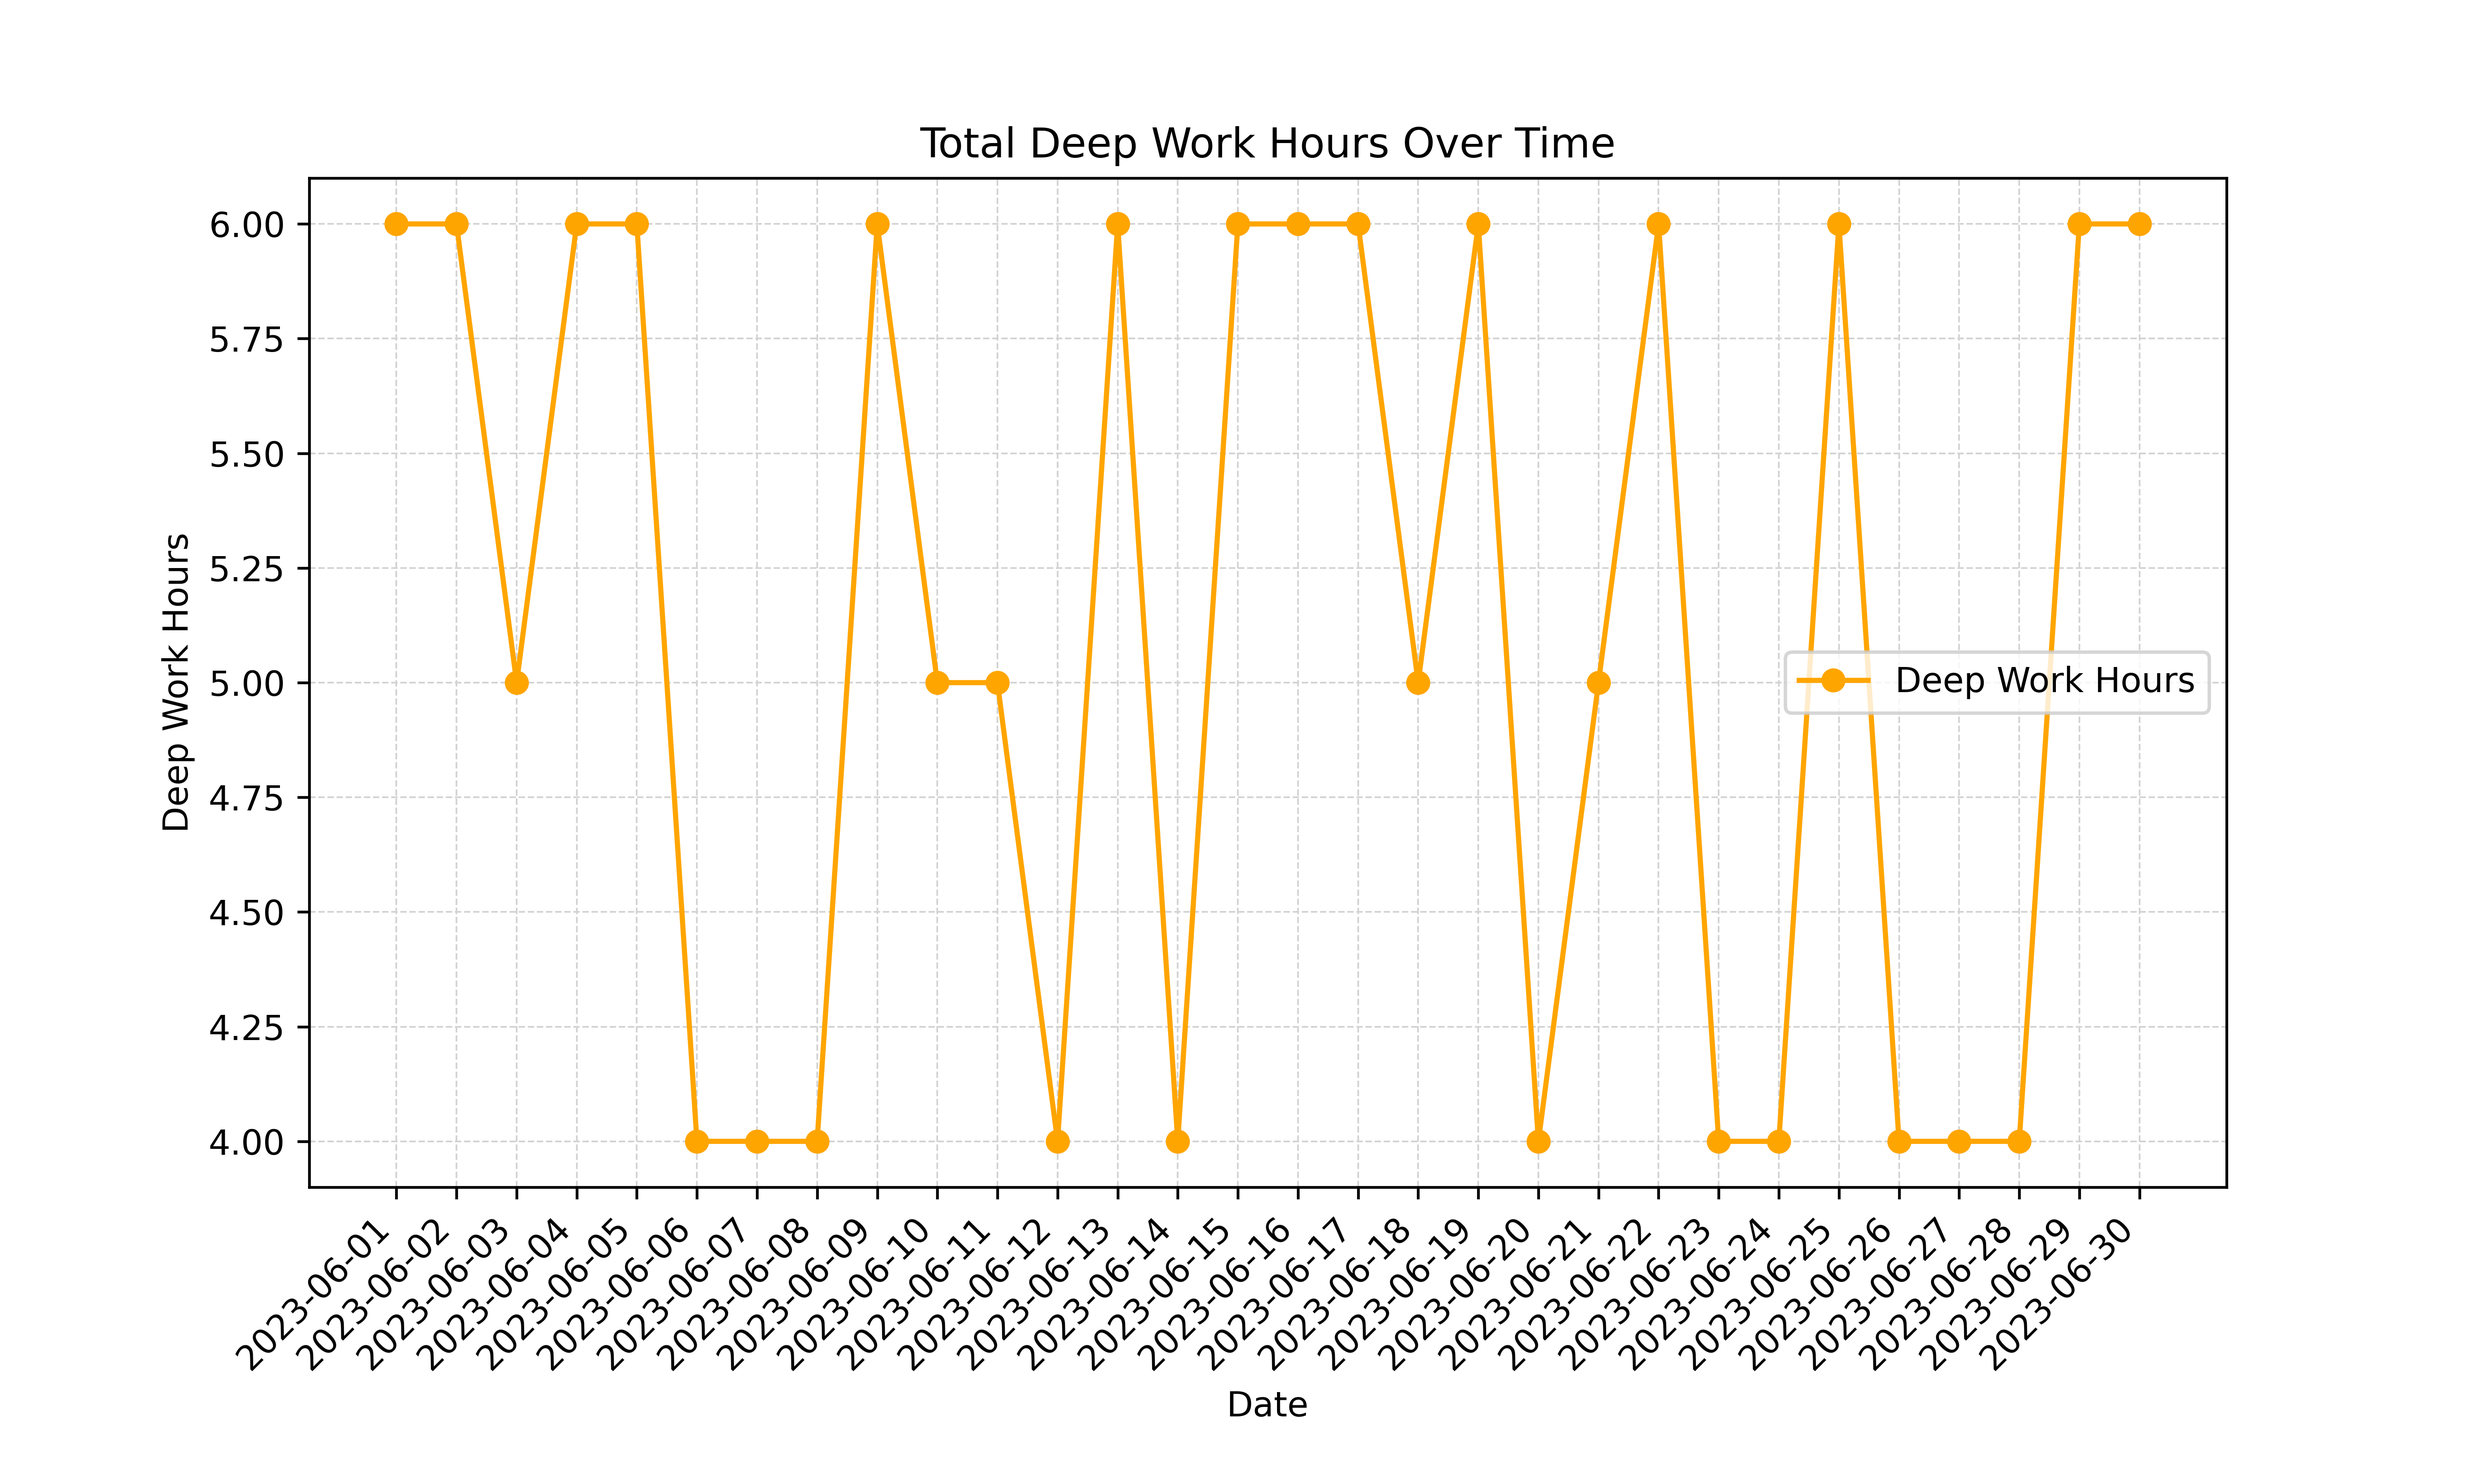
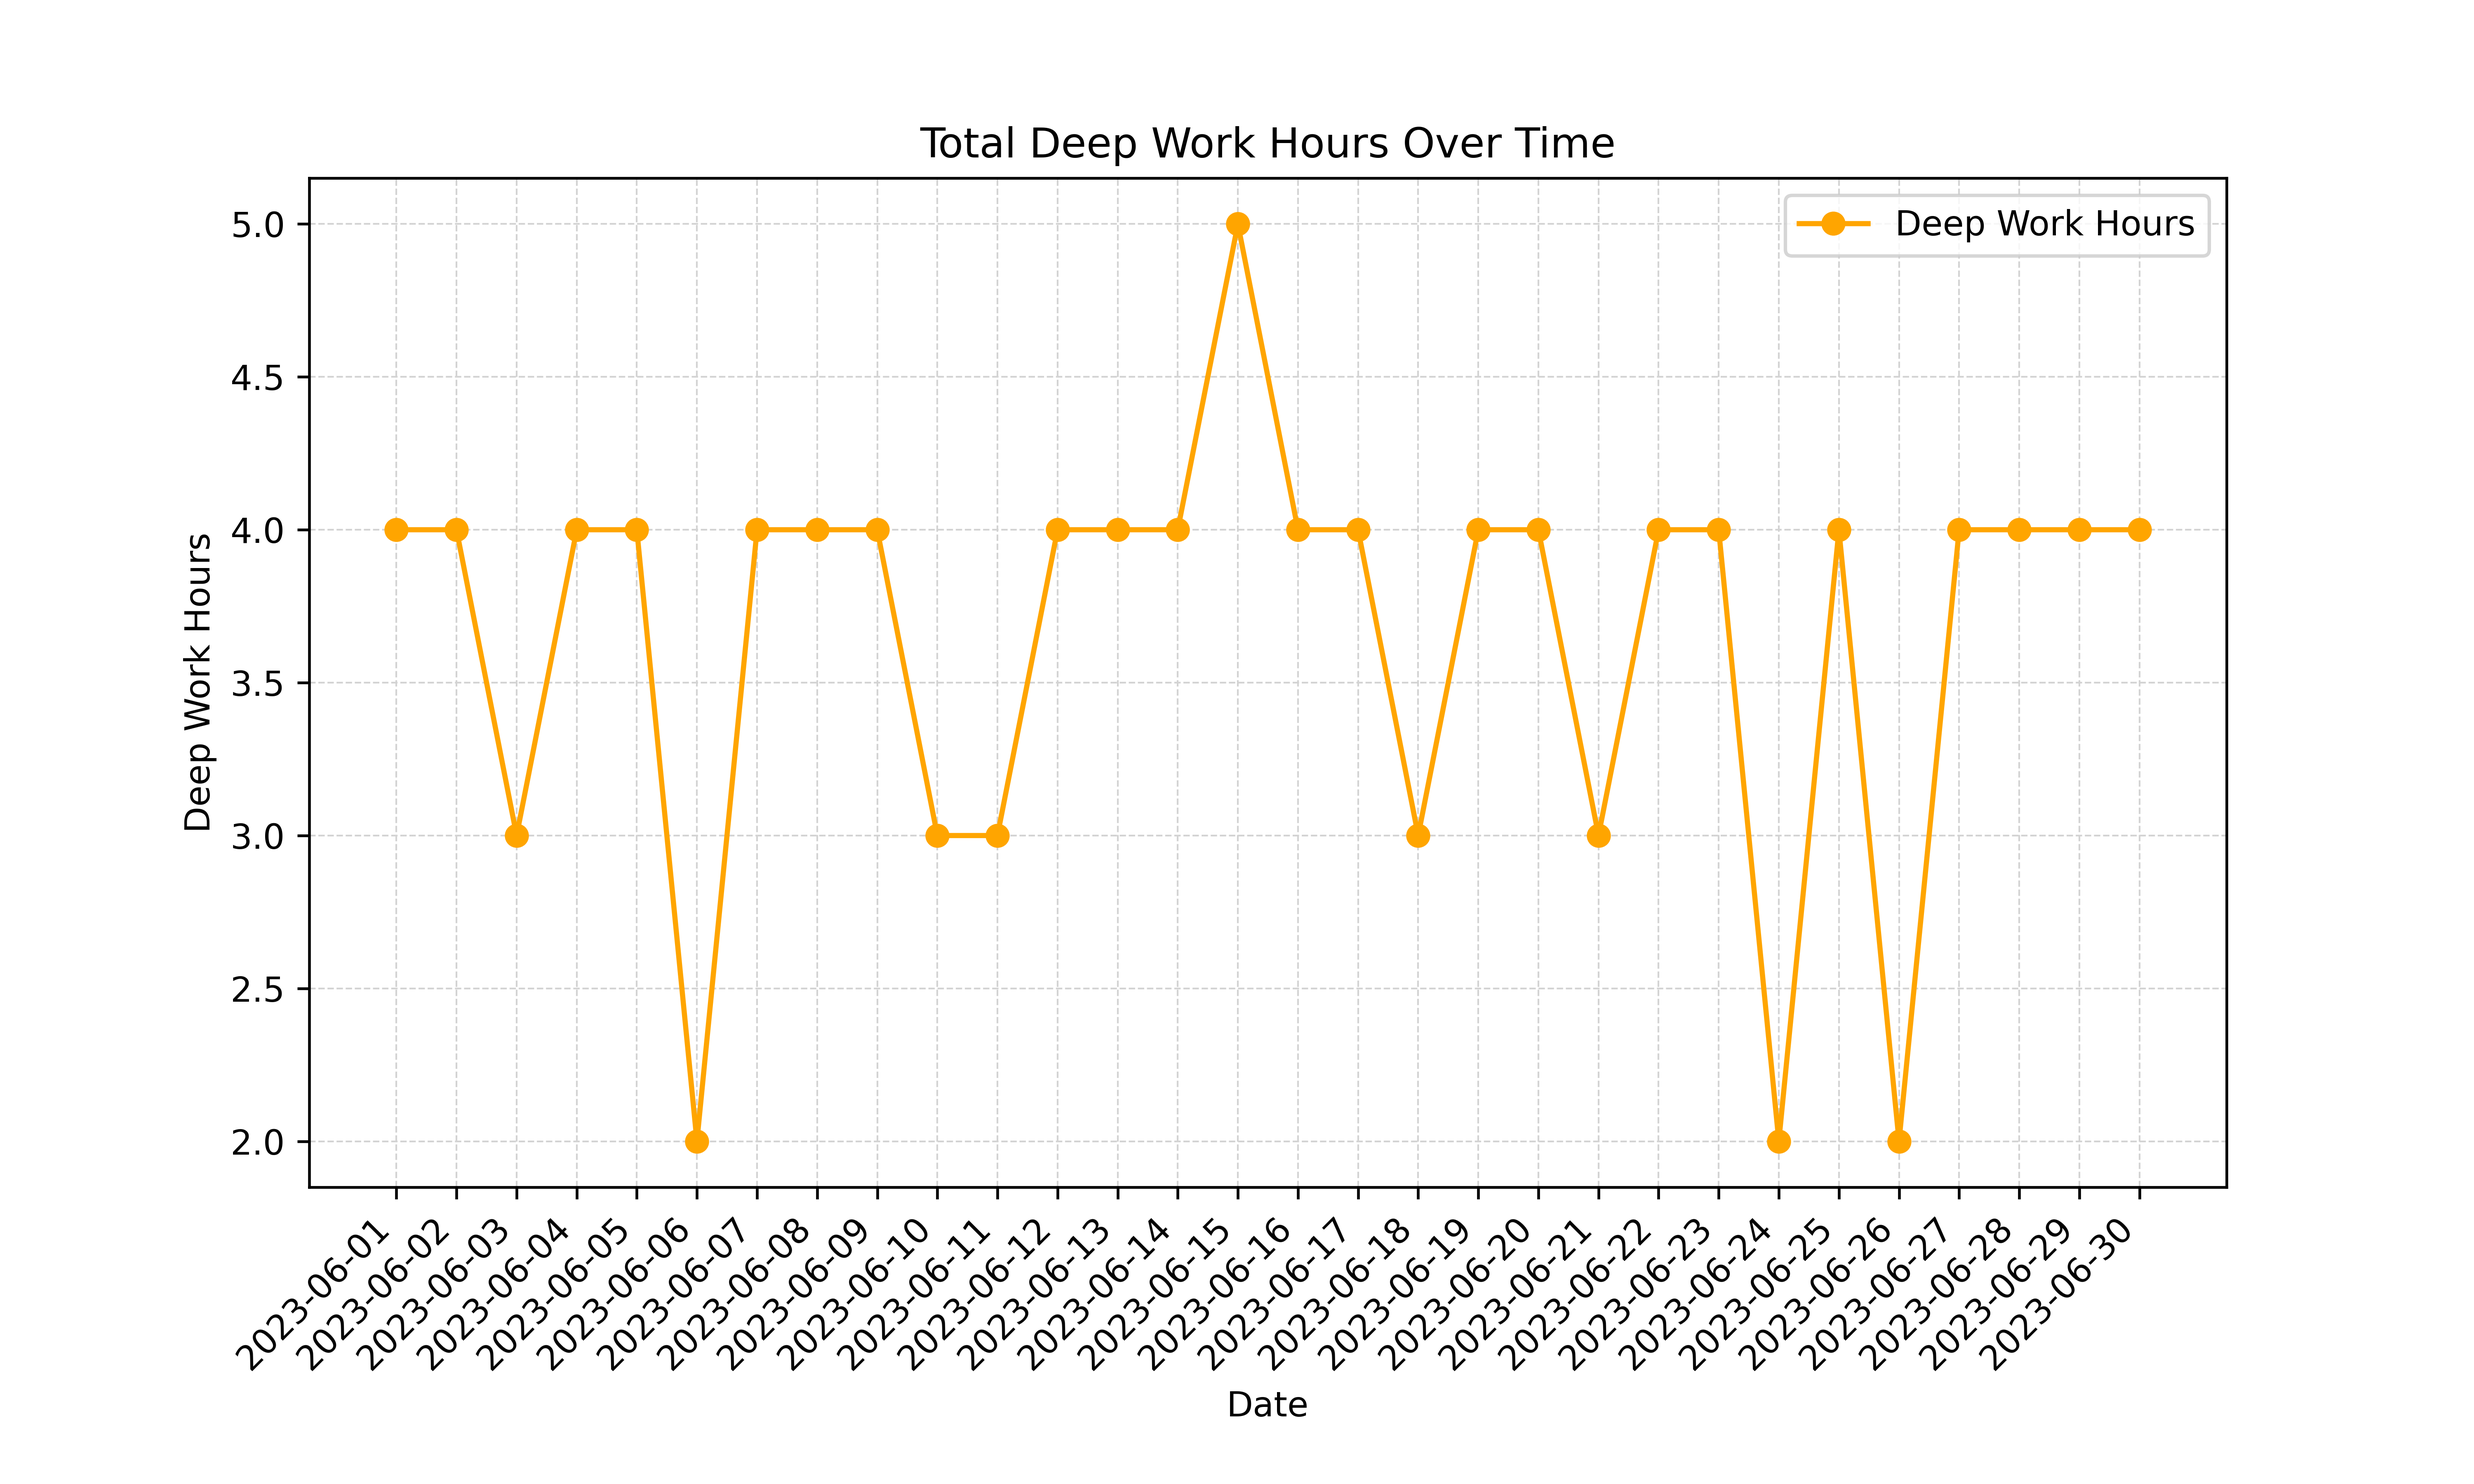
delete projects column

diff --git a/README.md b/README.md
@@ -36,13 +36,12 @@ pip install pandas matplotlib seaborn plotly-express
 2. Add rows to the `table.csv` file located in the `MONTH_YEAR` directory to track the hours you've spent per day in each category:
 
 ```
-Date,Reading,Writing,Coding,Mathematics,Projects
-2023-06-01,1,0,2,1,2
-2023-06-02,0,1,2,1,2
-2023-06-03,0,0,2,1,2
-2023-06-04,1,3,0,0,2
-2023-06-05,1,0,2,1,2
-2023-06-06,1,0,0,1,2
+Date,Reading,Writing,Coding,Mathematics
+2023-06-01,1,0,2,1
+2023-06-02,0,1,2,1
+2023-06-03,0,0,2,1
+2023-06-04,1,3,0,0
+2023-06-05,1,0,2,1
 ...
 ```
 
@@ -67,17 +66,22 @@ python update_monthly_summary.py
 For the `june_2023` example, `monthly_summary.md` will generate the following information:
 
 ```
-Total Deep Work Hours: 153 
-Average Deep Work Hours per Day: 5.10 
-Maximum Deep Work Hours: 6 
-Minimum Deep Work Hours: 4 
+Total Deep Work Hours: 110 
+Average Deep Work Hours per Day: 3.67 
+Maximum Deep Work Hours: 5 
+Minimum Deep Work Hours: 2 
 
 Total Deep Work Hours (by Category):
   - Reading: 24
   - Writing: 11
   - Coding: 48
   - Mathematics: 27
-  - Projects: 43
+
+ ### Total Deep Work Hours Over Time: 
+![Line Graph](figures/line_graph.png) 
+
+ ### Deep Work Hours by Category Over Time: 
+![Facet Plot](figures/facet_plot.png) 
 ```
 
 Additionally, `monthly_summary.md` will contain `line_graph.png`, which will look like this:

diff --git a/june_2023/monthly_summary.md b/june_2023/monthly_summary.md
@@ -1,14 +1,13 @@
-Total Deep Work Hours: 153 
-Average Deep Work Hours per Day: 5.10 
-Maximum Deep Work Hours: 6 
-Minimum Deep Work Hours: 4 
+Total Deep Work Hours: 110 
+Average Deep Work Hours per Day: 3.67 
+Maximum Deep Work Hours: 5 
+Minimum Deep Work Hours: 2 
 
 Total Deep Work Hours (by Category):
   - Reading: 24
   - Writing: 11
   - Coding: 48
   - Mathematics: 27
-  - Projects: 43
 
  ### Total Deep Work Hours Over Time: 
 ![Line Graph](figures/line_graph.png) 
